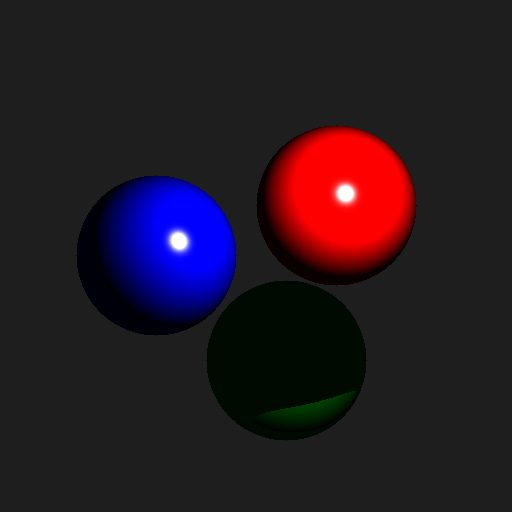
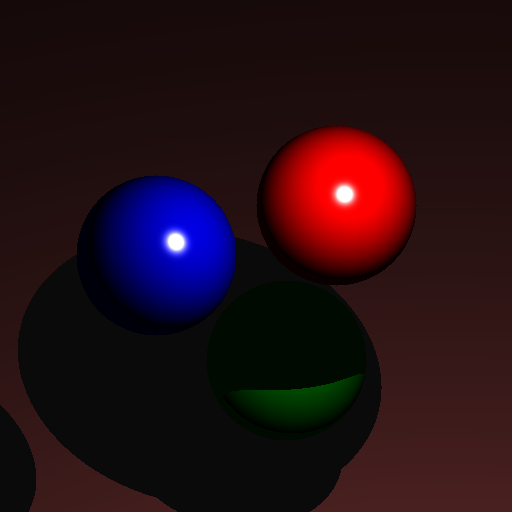
Simple plane rendering. To basic i guess but works :)

diff --git a/src/scene/Loader.cpp b/src/scene/Loader.cpp
@@ -6,6 +6,7 @@
 
 #include "core/Material.hpp"
 #include "shape/Sphere.hpp"
+#include "shape/Plane.hpp"
 #include "shape/Light.hpp"
 
 namespace rt
@@ -18,6 +19,7 @@ Loader::Loader() : logger_("Loader")
     objectMapping = 
     {
         {"sphere", ObjectType::Sphere},
+        {"plane", ObjectType::Plane},
         {"light" , ObjectType::Light}
     };
 }
@@ -44,6 +46,7 @@ Scene Loader::load(std::string filename)
         switch(objectMapping[objectType])
         {
             case ObjectType::Sphere : loadSphere(scene, object); break;
+            case ObjectType::Plane  : loadPlane(scene, object); break;
             case ObjectType::Light  : loadLight(scene, object); break;
             default : throw std::string("Unknown object type: ") + objectType;
         };
@@ -107,6 +110,19 @@ void Loader::loadSphere(Scene& scene, Json::Value& objectNode)
     
     object->setPosition(pos);
     object->setRadius(radius);
+    object->setMaterial(material);
+    scene.addObject(object);
+}
+
+void Loader::loadPlane(Scene& scene, Json::Value& objectNode)
+{
+    logger_.dbg()<< "Loading plane...";
+    Json::Value planeNode = objectNode.get("config", "null");  
+    shape::Plane::Ptr object = std::make_shared<shape::Plane>();
+    core::Point pos = loadPosition(planeNode);
+    core::Material material = loadMaterial(planeNode);
+    
+    object->setPosition(pos);
     object->setMaterial(material);
     scene.addObject(object);
 }

diff --git a/src/shape/Plane.cpp b/src/shape/Plane.cpp
@@ -1,0 +1,38 @@
+#include "Plane.hpp"
+
+#include <cmath>
+
+namespace rt
+{
+namespace shape
+{
+
+core::Vector Plane::getNormalAt(core::Point& p)
+{
+    core::Vector normal (getPosition());
+    normal.normalize();
+    return normal;
+}
+
+bool Plane::hit(core::Ray r, double& t)
+{
+    core::Vector rayDirection = r.getDirection();
+    double d = rayDirection.dotProduct(getPosition());
+
+    if (d >= 0) return false;
+
+    double distance = (getPosition() * r.getOrgin()) * -1.0/d + 900.0;
+
+    if(distance > 0 && distance < t)
+    {
+        t = distance;
+        return true;
+    }
+    return false;
+
+    
+}
+
+
+}  // namespace shape
+}  // namespace rt

diff --git a/src/shape/Plane.hpp b/src/shape/Plane.hpp
@@ -1,0 +1,36 @@
+#ifndef RT_SHAPE_PLANE_HPP_
+#define RT_SHAPE_PLANE_HPP_
+
+#include <memory>
+
+#include <libs/Logger.hpp>
+
+#include "core/Object.hpp"
+#include "core/Vector.hpp"
+
+namespace rt
+{
+namespace shape
+{
+
+class Plane : public core::Object
+{
+public:
+    using Ptr = std::shared_ptr<Plane>;
+    
+    Plane() : logger_("Plane")
+    {
+        isCastingShadow = false; 
+    }
+
+    core::Vector getNormalAt(core::Point& p) override;
+    bool hit(core::Ray r, double& dist) override; 
+
+private:
+    Logger logger_;
+};
+
+}  // namespace shape
+}  // namespace rt
+
+#endif  // RT_SHAPE_PLANE_HPP_

diff --git a/src/scene/Loader.hpp b/src/scene/Loader.hpp
@@ -19,6 +19,7 @@ namespace scene
 enum class ObjectType
 {
     Sphere,
+    Plane,
     Light
 };
 
@@ -35,6 +36,7 @@ private:
     core::Material loadMaterial(Json::Value& objectNode);
     core::Color loadColor(Json::Value& objectNode, std::string colorName);
 	void loadSphere(Scene& scene, Json::Value& sphereNode);
+    void loadPlane(Scene& scene, Json::Value& planeNode);
     void loadLight(Scene& scene, Json::Value& lightNode);
 
 

diff --git a/src/shape/Sphere.hpp b/src/shape/Sphere.hpp
@@ -21,8 +21,8 @@ public:
     Sphere() : logger_("Sphere")
     { }
 
-    virtual core::Vector getNormalAt(core::Point& p);
-    virtual bool hit(core::Ray r, double& dist);
+    core::Vector getNormalAt(core::Point& p) override;
+    bool hit(core::Ray r, double& dist) override;
 
     void setRadius(double radius);
     double getRadius();

diff --git a/src/Raytracer.cpp b/src/Raytracer.cpp
@@ -116,7 +116,7 @@ core::Color Raytracer::trace(core::Ray& ray, int recursiveStep)
         {
 
             double t2_tmp = t2;
-            if(object->hit(lightRay, t2_tmp))
+            if(object->isCastingShadow && object->hit(lightRay, t2_tmp))
             {
                 isInShadow = true;
                 break;

diff --git a/src/core/Object.hpp b/src/core/Object.hpp
@@ -29,6 +29,8 @@ public:
     virtual Vector getNormalAt(Point& p) = 0;
     virtual bool hit(Ray r, double& dist) = 0;
 
+    bool isCastingShadow = true;
+
 
 private:
     Point position_;
